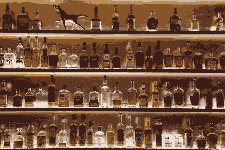
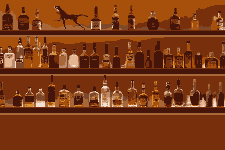
P2: Improved visuals

diff --git a/projects/project 2 final/js/script.js b/projects/project 2 final/js/script.js
@@ -12,21 +12,16 @@ let objectList = [];
 let canvas;
 
 // Defines sprites
-let spriteBackground;
+let spriteBackground, spriteTable;
+
+// Defines colors
+let cDarkGrey, cLightGrey;
 
 // Defines objects
-let shakerLid;
-let shaker;
-let boxA;
-let boxB;
-let ground;
-let ice;
+let shakerLid, shaker, boxA, boxB, ground, ice;
 
 // Implements Matter.js modules
-let engine;
-let render;
-let mouse;
-let mouseConstraint;
+let engine, render, mouse, mouseConstraint;
 let Engine = Matter.Engine,
     Render = Matter.Render,
     Runner = Matter.Runner,
@@ -44,10 +39,15 @@ let Engine = Matter.Engine,
     Body = Matter.Body;
 
 
-// Loads images and sounds
+// Loads images, sounds and colours
 function preload() {
+  // Defines
   spriteBackground = loadImage('assets/images/background.png');
+  spriteTable = loadImage('assets/images/table.png');
 
+  // Defines colours
+  cDarkGrey = color(58, 59, 60);
+  cLightGrey = color(176, 179, 184);
 }
 
 // Sets up the canvas
@@ -59,46 +59,53 @@ function setup() {
   world = engine.world;
   Engine.run(engine);
 
-  // Creates the ground
-  ground = new Rectangle(400, 600, 810, 150, 1);
-
   // Creates objects
+  ground = new Rectangle(400, 550, 810, 100, 1, spriteTable);
   boxA = new Rectangle(350, -100, 80, 80, 0);
   boxB = new Rectangle(375, 100, 80, 80, 0);
-
-  // Add bodies
   shaker = new Shaker();
-  // var shakerA = new Trapezoid(260, 100, 80, 190, -.35, 200, 0);
-  // var shakerB = new Trapezoid(120, 275, 108, 35, .6, 200, 0);
-  // var shakerC = new Rectangle(120, 200, 45, 35, 0);
-  // shaker = Body.create({ parts: [shakerA.body, shakerB.body, shakerC.body]});
 
-  objectList.push(ground, boxA, boxB, shaker);//, shakerA, shakerB, shakerC);
-
-  // Creates Ice
-  // var ice = Composites.stack(650, 400, 5, 3, 0, 0, function(x, y) {
-  //   return Bodies.rectangle(x, y, 25, 25, {
-  //     render: {
-  //       // fillStyle: '#FFFFFF',
-  //       // strokeStyle: 'black'
-  //     }
-  //   });
-  // });
+  // Adds bodies to the object list
+  objectList.push(ground, boxA, boxB, shaker);
 
   // Creates the mouse for interaction
   mouse = Mouse.create(canvas.elt);
   mouseConstraint = MouseConstraint.create(engine, {
-      mouse: mouse,
-      pixelRatio: pixelDensity(),
-      constraint: {
-          stiffness: 0.4,
-          render: {
-              visible: false
-          }
-      }
-    });
+    mouse: mouse,
+    pixelRatio: pixelDensity(),
+    constraint: {
+        stiffness: 0.4,
+        render: {
+            visible: false
+        }
+    }
+  });
   World.add(world, mouseConstraint);
 }
+
+// Creates gradients
+function setGradient(x, y, w, h, c1, c2, axis) {
+  noFill();
+
+  if (axis === 1) {
+    // Top to bottom gradient
+    for (let i = y; i <= y + h; i++) {
+      let inter = map(i, y, y + h, 0, 1);
+      let c = lerpColor(c1, c2, inter);
+      stroke(c);
+      line(x, i, x + w, i);
+    }
+  } else if (axis === 2) {
+    // Left to right gradient
+    for (let i = x; i <= x + w; i++) {
+      let inter = map(i, x, x + w, 0, 1);
+      let c = lerpColor(c1, c2, inter);
+      stroke(c);
+      line(i, y, i, y + h);
+    }
+  }
+}
+
 
 // Runs the program
 function draw() {

diff --git a/projects/project 2 final/js/shapes.js b/projects/project 2 final/js/shapes.js
@@ -1,12 +1,13 @@
 // Parent class for shapes
 class Shapes {
-  constructor(x, y, w, h, isStatic) {
+  constructor(x, y, w, h, isStatic, sprite) {
     this.x = x;
     this.y = y;
     this.w = w;
     this.h = h;
     this.static = isStatic;
     this.body;
+    this.sprite = sprite || 0;
   }
 
 // Displays the shape
@@ -20,15 +21,30 @@ class Shapes {
          this.body.vertices[2].x - pos.x, this.body.vertices[2].y - pos.y,
          this.body.vertices[3].x - pos.x, this.body.vertices[3].y - pos.y,
          this.body.vertices[0].x - pos.x, this.body.vertices[0].y - pos.y);
+
+     // setGradient(this.body.vertices[0].x - pos.x, this.body.vertices[0].y - pos.y,
+     //             this.body.vertices[2].x,
+     //             this.body.vertices[2].y ,
+     //             cDarkGrey, cLightGrey, 1);
+
+    // If there is a sprite
+    if (this.sprite != 0){
+      imageMode(CORNERS);
+      image(this.sprite,
+        this.body.vertices[1].x - pos.x,
+        this.body.vertices[1].y - pos.y,
+        this.body.vertices[3].x - pos.x,
+        this.body.vertices[3].y - pos.y);
+
+    }
     pop();
   }
-
 }
 
 // Makes a rectangle
 class Rectangle extends Shapes {
-  constructor(x, y, w, h, isStatic) {
-    super(x, y, w, h, isStatic);
+  constructor(x, y, w, h, isStatic, sprite) {
+    super(x, y, w, h, isStatic, sprite);
 
     if (this.static == 0) {
       this.body = Bodies.rectangle(x, y, w, h, { isStatic: false });

diff --git a/projects/project 2 final/js/shaker.js b/projects/project 2 final/js/shaker.js
@@ -51,10 +51,16 @@ class Shaker {
       //   }
       // }
 
+
       // Draws the shapes
       push();
       translate(pos.x, pos.y);
       rectMode(CENTER);
+      fill(cLightGrey);
+      // setGradient(this.body.vertices[0].x - pos.x, this.body.vertices[0].y - pos.y,
+      //             this.body.vertices[2].x,
+      //             this.body.vertices[2].y ,
+      //             cDarkGrey, cLightGrey, 1);
       quad(currentBody.vertices[1].x - pos.x, currentBody.vertices[1].y - pos.y,
            currentBody.vertices[2].x - pos.x, currentBody.vertices[2].y - pos.y,
            currentBody.vertices[3].x - pos.x, currentBody.vertices[3].y - pos.y,
